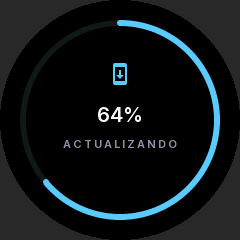
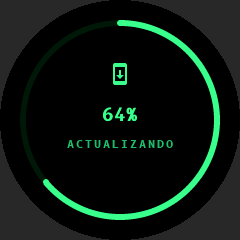
Screen off after 2 min without PC data, back on when data returns
- New setting pc_off_s (default 120 s, web panel): no data from the PC app
  for that long parks on the clock with the backlight off; data or a touch
  turns it back on
- Settings load sanitises fields that may sit in an older blob's padding
- /api/status reports the backlight level
- Refreshed OTA and portal screenshots in green

diff --git a/firmware/src/webpanel.h b/firmware/src/webpanel.h
@@ -67,7 +67,9 @@ button:hover,.btn:hover{background:var(--f)} .warn{color:var(--a);border-color:v
 <label>BRILLO NOCTURNO MÁX <span class="val" id="nmv"></span><input type="range" id="nm" min="0" max="255"></label>
 <label class="tg"><input type="checkbox" id="eyes">OJOS CUANDO NO USAS EL PC</label>
 <div class="row"><label>OJOS TRAS (MIN)<input id="idle" type="number" min="1" max="60"></label>
-<label>DORMIR TRAS (MIN)<input id="sleep" type="number" min="1" max="120"></label></div></section>
+<label>DORMIR TRAS (MIN)<input id="sleep" type="number" min="1" max="120"></label></div>
+<label>APAGAR PANTALLA SIN DATOS DEL PC (MIN)<input id="pcoff" type="number" min="1" max="60"></label>
+<div class="hint">Se vuelve a encender sola en cuanto el PC envía datos, o al tocarla.</div></section>
 
 <section><h2>SISTEMA</h2>
 <div class="st" id="sys"></div>
@@ -89,7 +91,7 @@ async function load(){const c=await (await fetch("/api/config")).json();
  $("spotOn").checked=c.spotlight.enabled;$("secs").value=c.spotlight.show_seconds;$("rep").value=c.spotlight.repeat_minutes;
  $("wcs").value=c.spotlight.watch_callsigns.join(",");$("wty").value=c.spotlight.watch_types.join(",");
  const s=c.screen;$("ns").value=s.night_start;$("ne").value=s.night_end;$("nm").value=s.night_max;$("br").value=s.brightness;
- $("eyes").checked=s.eyes;$("idle").value=Math.round(s.idle_eye_s/60);$("sleep").value=Math.round(s.sleepy_s/60);
+ $("eyes").checked=s.eyes;$("idle").value=Math.round(s.idle_eye_s/60);$("sleep").value=Math.round(s.sleepy_s/60);$("pcoff").value=Math.round(s.pc_off_s/60);
  live.forEach(([i,o,u])=>$(o).textContent=$(i).value+u)}
 async function status(){try{const s=await (await fetch("/api/status")).json();
  $("st").innerHTML=`WIFI <b>${s.ssid}</b> ${s.rssi} dBm · PC <b class="${s.pc?"":"bad"}">${s.pc?s.host:"SIN ENLACE"}</b> · UP <b>${s.up}</b>`;
@@ -99,7 +101,7 @@ $("save").onclick=async()=>{msg("TRANSMITIENDO...");
  const body={home:{lat:+$("lat").value,lon:+$("lon").value,city:$("city").value.trim()},
   radar:{enabled:$("radarOn").checked,radius_km:+$("rk").value,auto_show:$("auto").checked},
   spotlight:{enabled:$("spotOn").checked,show_seconds:+$("secs").value,repeat_minutes:+$("rep").value,watch_callsigns:list($("wcs").value),watch_types:list($("wty").value)},
-  screen:{night_start:+$("ns").value,night_end:+$("ne").value,night_max:+$("nm").value,brightness:+$("br").value,eyes:$("eyes").checked,idle_eye_s:+$("idle").value*60,sleepy_s:+$("sleep").value*60}};
+  screen:{night_start:+$("ns").value,night_end:+$("ne").value,night_max:+$("nm").value,brightness:+$("br").value,eyes:$("eyes").checked,idle_eye_s:+$("idle").value*60,sleepy_s:+$("sleep").value*60,pc_off_s:+$("pcoff").value*60}};
  const r=await fetch("/api/config",{method:"POST",headers:{"Content-Type":"application/json"},body:JSON.stringify(body)});
  msg(r.ok?"GUARDADO ✓":"ERROR "+r.status);if(r.ok)load()};
 $("find").onclick=async()=>{const q=$("q").value.trim();if(!q)return;$("res").textContent="BUSCANDO...";

diff --git a/firmware/src/settings.cpp b/firmware/src/settings.cpp
@@ -6,8 +6,15 @@ static Preferences p;
 
 void settingsLoad() {
   p.begin("cfg", true);
-  if (p.isKey("blob") && p.getBytesLength("blob") == sizeof(Settings)) p.getBytes("blob", &cfg, sizeof cfg);
+  size_t n = p.isKey("blob") ? p.getBytesLength("blob") : 0;
+  if (n && n <= sizeof(Settings)) p.getBytes("blob", &cfg, n);  // older firmware saved a shorter prefix
   p.end();
+  // fields added later may have landed in the old blob's padding: sanitise
+  const Settings def;
+  if (cfg.pcOffSec < 30 || cfg.pcOffSec > 3600) cfg.pcOffSec = def.pcOffSec;
+  if (cfg.idleEyeSec < 30) cfg.idleEyeSec = def.idleEyeSec;
+  if (cfg.sleepySec < 60) cfg.sleepySec = def.sleepySec;
+  if (cfg.radiusKm < 2) cfg.radiusKm = def.radiusKm;
   // migrate the home pushed by older agents (stored by net.cpp)
   if (!cfg.hasHome) {
     Preferences w;
@@ -57,6 +64,7 @@ void settingsToJson(JsonDocument& d) {
   sc["idle_eye_s"] = cfg.idleEyeSec;
   sc["sleepy_s"] = cfg.sleepySec;
   sc["eyes"] = cfg.eyesOn;
+  sc["pc_off_s"] = cfg.pcOffSec;
 }
 
 template <typename T>
@@ -118,5 +126,6 @@ bool settingsFromJson(JsonVariantConst d) {
   ch |= upd<uint16_t>(cfg.idleEyeSec, sc["idle_eye_s"], 30, 3600);
   ch |= upd<uint16_t>(cfg.sleepySec, sc["sleepy_s"], 60, 7200);
   ch |= updB(cfg.eyesOn, sc["eyes"]);
+  ch |= upd<uint16_t>(cfg.pcOffSec, sc["pc_off_s"], 30, 3600);
   return ch;
 }

diff --git a/firmware/src/net.cpp b/firmware/src/net.cpp
@@ -72,8 +72,9 @@ static void applySettings(JsonVariantConst d) {
 }
 
 bool pcOnline() { return pc.lastRx && millis() - pc.lastRx < 5000; }
-bool pcAsleep() {
-  return millis() > 60000 && (!pc.lastRx || millis() - pc.lastRx > 60000);
+bool pcAsleep() {  // no data from the PC app for cfg.pcOffSec (default 2 min)
+  uint32_t lim = cfg.pcOffSec * 1000UL;
+  return millis() > lim && (!pc.lastRx || millis() - pc.lastRx > lim);
 }
 const char* netSsid() { return ssid.c_str(); }
 
@@ -294,6 +295,7 @@ static void apiStatus() {
   snprintf(up, sizeof up, "%luh %02lum", m / 60, m % 60);
   d["up"] = up;
   d["heap"] = ESP.getFreeHeap();
+  d["backlight"] = hwTarget();
   String out;
   serializeJson(d, out);
   server.send(200, "application/json", out);

diff --git a/firmware/src/ui_main.cpp b/firmware/src/ui_main.cpp
@@ -389,7 +389,7 @@ static void policy() {
   uint8_t b = hwUserBrightness();
   bool touched = millis() - lastTouchMs() < WAKE_ON_TOUCH_MS;
   if (night) b = min<uint8_t>(b, cfg.nightMax);
-  if (asleep && !touched) b = night ? 0 : min<uint8_t>(b, PC_OFF_BRIGHTNESS);
+  if (asleep && !touched) b = 0;  // PC gone -> screen off; data or a touch brings it back
   if (eyeActive() && night && !touched) b = min<uint8_t>(b, 12);
   hwSetTarget(b);
 }

diff --git a/firmware/src/settings.h b/firmware/src/settings.h
@@ -20,6 +20,8 @@ struct Settings {
   uint8_t nightStart = 23, nightEnd = 8, nightMax = 35;
   uint16_t idleEyeSec = 120, sleepySec = 900;
   bool eyesOn = true;
+  // appended fields keep older saved blobs loadable (prefix-compatible)
+  uint16_t pcOffSec = 120;  // no data from the PC for this long -> backlight off
 };
 
 extern Settings cfg;

diff --git a/firmware/src/hw.cpp b/firmware/src/hw.cpp
@@ -84,6 +84,7 @@ static float curBright = 0;
 uint32_t lastTouchMs() { return lastTouch; }
 uint8_t hwUserBrightness() { return userBright; }
 void hwSetTarget(uint8_t b) { targetBright = b; }
+uint8_t hwTarget() { return targetBright; }
 void hwPoke() { lastTouch = millis(); }
 
 void hwSetUserBrightness(uint8_t b, bool save) {

diff --git a/firmware/src/app.h b/firmware/src/app.h
@@ -49,6 +49,7 @@ void hwLoop();
 uint8_t hwUserBrightness();
 void hwSetUserBrightness(uint8_t b, bool save);
 void hwSetTarget(uint8_t b);
+uint8_t hwTarget();
 void hwPoke();  // counts as a touch: wakes a dark screen
 
 // net.cpp - Wi-Fi, setup portal, UDP, OTA, weather

diff --git a/README.md b/README.md
@@ -79,7 +79,7 @@ Open **http://deskbuddy.local** for a HUD-styled control panel:
 DeskBuddy keeps the settings and syncs them to the PC app on its own.
 
 ### 🌙 Night mode & auto-sleep · 📶 OTA updates · 📱 Wi-Fi setup portal
-Brightness drops at night, and when the PC sleeps DeskBuddy parks on the clock (the screen goes off at night). After the first USB flash, every update goes over Wi-Fi. On first boot a **DeskBuddy-Setup** hotspot lets you pick your network from your phone.
+Brightness drops at night. If the PC app sends nothing for **2 minutes** (PC asleep, off or app closed), DeskBuddy parks on the clock and **switches the screen off**, then turns it back on by itself as soon as data arrives again (a touch also wakes it for 20 s). The timeout is set in the web panel. After the first USB flash, every update goes over Wi-Fi. On first boot a **DeskBuddy-Setup** hotspot lets you pick your network from your phone.
 
 ## 🧩 How it works
 
